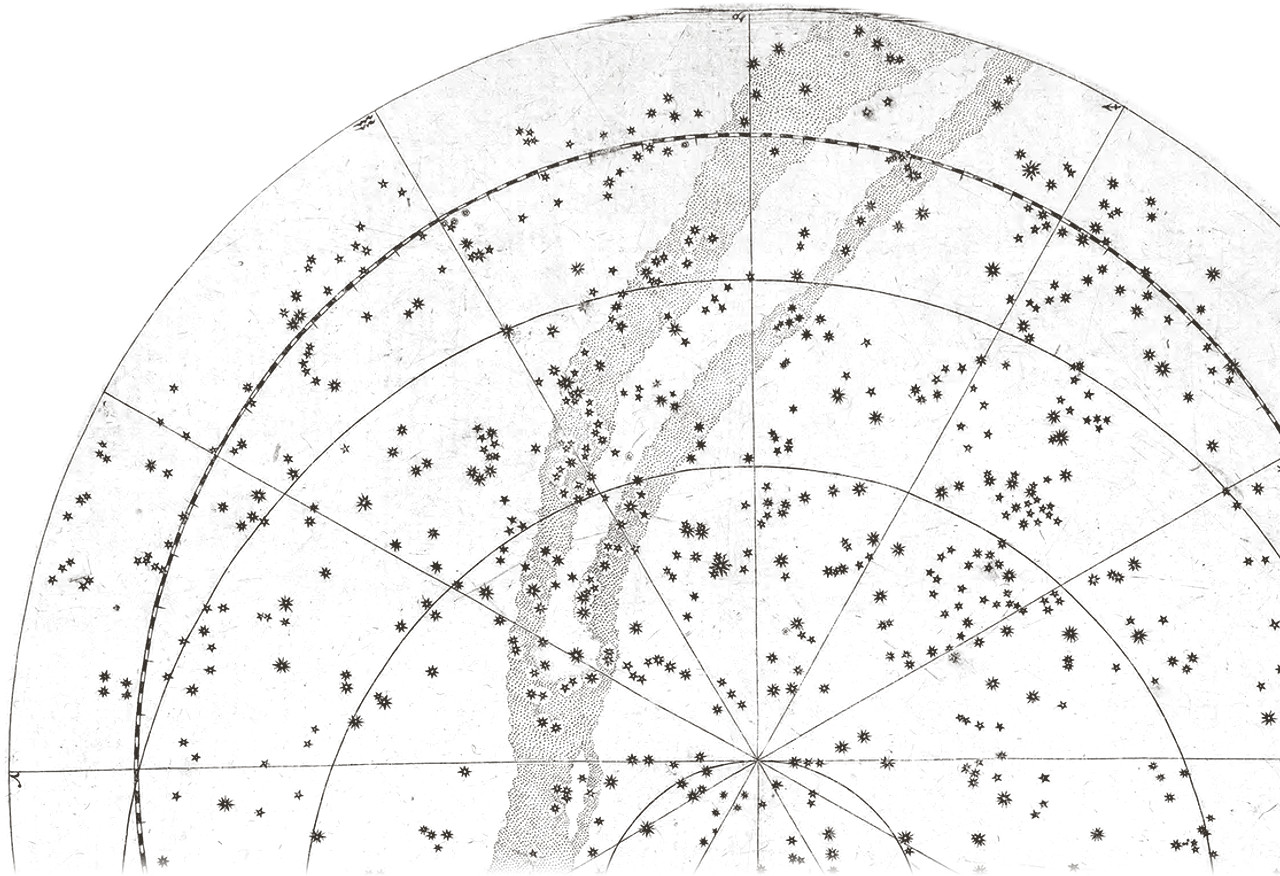
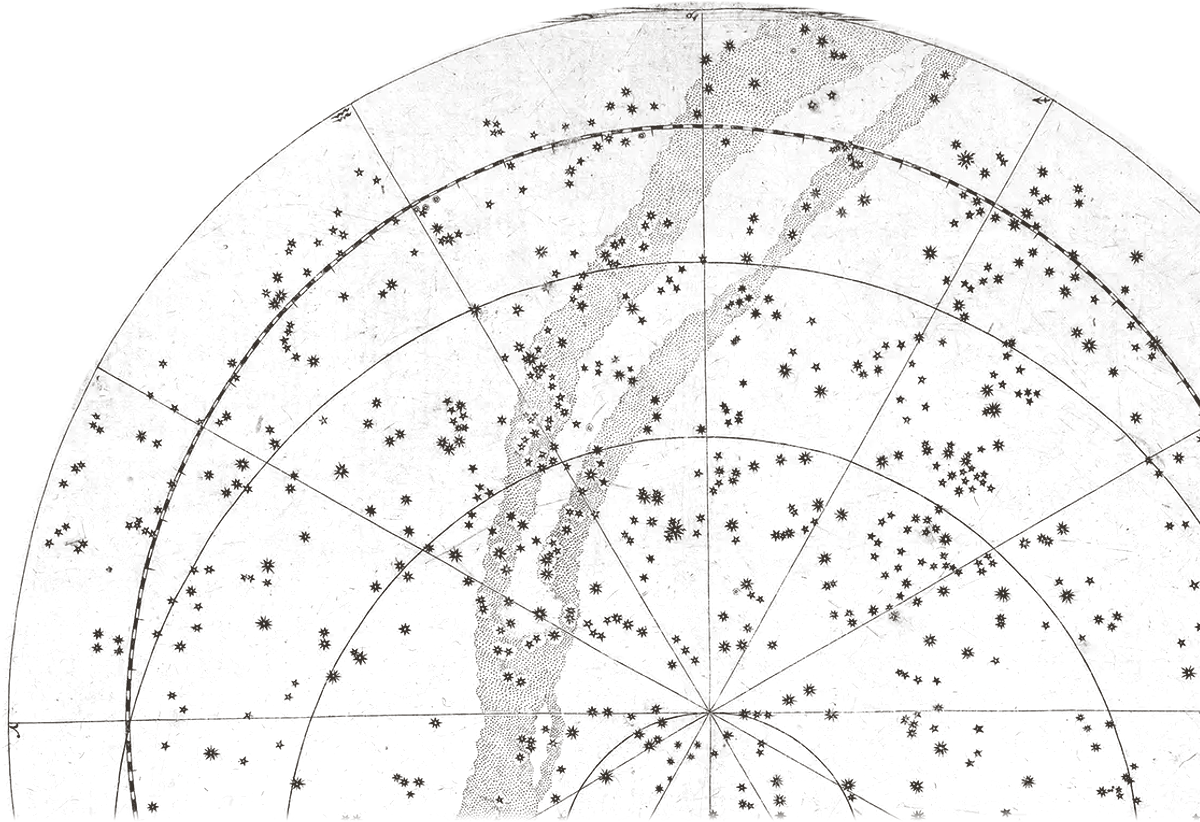
ICE lightcone-research: Bayer's planisphere at twice the size from the same right and bottom edges, fading toward the text; its credit is a fine line of small capitals just above it, without the date. house: a drawing's inscription may be as small as the footer
Claude-Session: https://claude.ai/code/session_01JK7o9F94H7qMghb2R3Ga1c

diff --git a/2611_ICE_Barcelona/slides/lightcone-research.html b/2611_ICE_Barcelona/slides/lightcone-research.html
@@ -6,8 +6,8 @@
     <li><img class="shot" src="images/lightcone_cli_banner.png" alt="The lc command line starting up: the Lightcone mark in dots beside LIGHTCONE CLI, the execution layer for ASTRA"><span><strong>Lightcone stack:</strong><br>CLI execution, viewer, skills…<br><a href="https://www.lightconeresearch.org/">lightconeresearch.org</a></span></li>
   </ul>
   <figure class="art">
-    <img class="plate" src="images/lightcone_planisphere.webp" data-at="1320 577 600 411" alt="The star chart of the northern sky from Johann Bayer's Uranometria, 1603: stars, the Milky Way and circles of declination, rising from the foot of the slide at the right and fading toward the upper left">
-    <figcaption class="source plate-credit">Bayer, Uranometria, 1603</figcaption>
+    <img class="plate" src="images/lightcone_planisphere.webp" data-at="720 166 1200 822" alt="The star chart of the northern sky from Johann Bayer's Uranometria, 1603: stars, the Milky Way and circles of declination, a large disc rising from the foot of the slide at the right and fading away toward the text">
+    <figcaption class="plate-credit">Bayer, Uranometria</figcaption>
   </figure>
   <aside class="notes">
     <ul class="skim">

diff --git a/2611_ICE_Barcelona/deck.css b/2611_ICE_Barcelona/deck.css
@@ -170,8 +170,8 @@
 .slide ul.marks a { font-size: var(--t-small); color: var(--muted); }
 .slide h2.marque::after { display: none; }
 .slide figure.art > img.plate { opacity: 0.78;
-  -webkit-mask-image: linear-gradient(to bottom right, transparent 6%, #000 52%); mask-image: linear-gradient(to bottom right, transparent 6%, #000 52%); }
-.slide figure.art > figcaption.plate-credit { right: 632px; bottom: 150px; font-style: italic; opacity: 0.6; }
+  -webkit-mask-image: radial-gradient(circle at 100% 100%, #000 30%, transparent 56%); mask-image: radial-gradient(circle at 100% 100%, #000 30%, transparent 56%); }
+.slide figure.art > figcaption.plate-credit { right: 105px; top: 192px; font-size: var(--t-foot); font-variant-caps: all-small-caps; letter-spacing: 0.08em; color: var(--muted); opacity: 0.75; }
 /* the live Studio slide shows no folio */
 [data-house-slide="lightcone"] .slide:not(.detail) > .foot > .num { visibility: hidden; }
 

diff --git a/house/test/media/slides/inscribed.html b/house/test/media/slides/inscribed.html
@@ -3,7 +3,7 @@
   <ul><li>the credit under the ring is part of the picture</li></ul>
   <figure class="art">
     <img src="images/ring.svg" alt="A ring in pencil at the lower right">
-    <figcaption class="source" style="right: 760px; bottom: 150px; opacity: 0.5">after no one, 2026</figcaption>
+    <figcaption class="signature">after no one, 2026</figcaption>
   </figure>
   <aside class="notes"><p>n</p></aside>
 </section>

diff --git a/house/test/media/deck.css b/house/test/media/deck.css
@@ -1,0 +1,2 @@
+/* an inscription as small and as light as the house lets a drawing carry */
+.slide figure.art > figcaption.signature { right: 760px; bottom: 150px; font-size: 26px; color: var(--muted); opacity: 0.5; }

diff --git a/house/README.md b/house/README.md
@@ -157,7 +157,7 @@ A `<figure>` holds an optional `<figcaption>` (a one-line label above), one visu
 - **Crops**: `<img src="…" data-crop="x y w h">` shows only that region (percent of the image, from its top left), so one tall composite can feed several slides without cropped copies in the pool. Each image file is inlined once per deck however many times it is shown or cropped. There is no scrolling: a figure too tall for a slide is cropped into panels.
 - **Highlights** are the one emphasis device for data figures: `<mark class="box fragment" data-box="x y w h">` outlines a region given in percent of the image (from its top left); `data-label="…"` adds a tag above it (`class="below"` puts it under). `<mark class="spot fragment" data-box="…">` dims everything outside the region instead. Add `fade-in-then-out` to a box that should disappear at the next step.
 - **Schematics are inline SVG**, for diagrams with no plot behind them. Put the `<svg viewBox="…">` directly in the `<figure>`; it scales like an image. Colour it with theme classes so it recolours with the theme — `fill-ink`, `fill-muted`, `fill-accent`, `fill-teal`, `fill-cobalt`, `fill-ochre`, `fill-rule`, `fill-panel`, `fill-ground`, `fill-none`, and `stroke-…` for each colour — and leave text unstyled (it takes the deck's face and ink). Give `font-size` in viewBox units; the checker measures it on screen against the 32 px floor. `<g class="fragment">` reveals parts in order. Ids must be unique across the whole deck (prefix them with the slide name). A schematic can be drawn in pen and watercolour: five pastel fills for washes (`fill-rose`, `fill-sage`, `fill-sky`, `fill-butter`, `fill-lilac`; light, so never text or a thin line), and four media that every deck carries as SVG filters: `wash` paints a shape as a loose wash with soft, wandering edges (`wash-fine` for shapes under about 150 units across), `glaze` lays it precisely to its outline with pigment gathering at the edge, `pen` gives a line a hand's wobble, and `pencil` draws it as a fine graphite line whose pressure rises and falls along it, broken by the grain of the paper. Pencil takes the stroke's colour (`stroke-ink` for graphite, a theme colour for a coloured pencil) and works on any line, a lone straight one included; it is the underdrawing, for what a drawing is laid out in: axes, frames that group boxes, ties between parts. At 2 to 2.4 units a pencil line reads on a projector and stays lighter than the pen.
-- **Art** is a drawing behind a slide's text: `<figure class="art"><img src="images/….png" alt="…"></figure>`, a 1920 × 1080 frame on a transparent ground, laid under the text of a `title`, `section`, `statement`, `points` or `closing` slide. On a title or section slide the text keeps the left 1040 px, so the drawing keeps to the right; elsewhere the text is set as it would be without the drawing, which keeps to the space the text leaves. The checker does not measure art against the text, so look at the slide. A drawing can be several layers, one `<img>` each, stacked in order from the back; a layer that covers only part of the frame is saved as that part and says where it lies with `data-at="x y w h"` (frame pixels), which keeps a stack of layers light to decode and to composite; a layer with `class="wash"` is transparent pigment, multiplied onto the layers under it. Layers may move, slowly and a little: `breathe` is a wash laid lighter that comes to full strength and pales again over 36 s, and `t0` … `t5` beside it set its turn, so a wave passes through a stack of washes; `sweep` turns a layer `--sweep` (default 1.2°) either way about its `transform-origin` every `--sweep-time` (default 14 s), both set by a class in the deck's css. A layer with `class="late"` stays hidden until every fragment on its slide is shown and fades in with the last one; one with `class="early"` fades in with the first. Only the slide on screen moves, and nothing moves in the report, in print or with `prefers-reduced-motion`, where the layers at rest are the drawing. A `sweep` layer with `data-at` takes its `transform-origin` from its own corner: `calc(<frame x>px - var(--x))`. A drawing may carry an inscription, such as the credit of a plate: a `<figcaption>` inside the figure, placed by the deck's css. It is held to the size floor and not to the contrast floor, so it can be as light as the drawing. Example: `2611_ICE_Barcelona/slides/title.html`, drawn by `make_art.mjs`.
+- **Art** is a drawing behind a slide's text: `<figure class="art"><img src="images/….png" alt="…"></figure>`, a 1920 × 1080 frame on a transparent ground, laid under the text of a `title`, `section`, `statement`, `points` or `closing` slide. On a title or section slide the text keeps the left 1040 px, so the drawing keeps to the right; elsewhere the text is set as it would be without the drawing, which keeps to the space the text leaves. The checker does not measure art against the text, so look at the slide. A drawing can be several layers, one `<img>` each, stacked in order from the back; a layer that covers only part of the frame is saved as that part and says where it lies with `data-at="x y w h"` (frame pixels), which keeps a stack of layers light to decode and to composite; a layer with `class="wash"` is transparent pigment, multiplied onto the layers under it. Layers may move, slowly and a little: `breathe` is a wash laid lighter that comes to full strength and pales again over 36 s, and `t0` … `t5` beside it set its turn, so a wave passes through a stack of washes; `sweep` turns a layer `--sweep` (default 1.2°) either way about its `transform-origin` every `--sweep-time` (default 14 s), both set by a class in the deck's css. A layer with `class="late"` stays hidden until every fragment on its slide is shown and fades in with the last one; one with `class="early"` fades in with the first. Only the slide on screen moves, and nothing moves in the report, in print or with `prefers-reduced-motion`, where the layers at rest are the drawing. A `sweep` layer with `data-at` takes its `transform-origin` from its own corner: `calc(<frame x>px - var(--x))`. A drawing may carry an inscription, such as the credit of a plate: a `<figcaption>` inside the figure, placed by the deck's css. It is held to the footer's size floor (24 px) and not to the contrast floor, so it can be as small and as light as a signature. Example: `2611_ICE_Barcelona/slides/title.html`, drawn by `make_art.mjs`.
 - `<div class="placeholder">figure to come</div>` in place of the image marks a figure not made yet; the checker warns while one remains.
 
 ## Components
